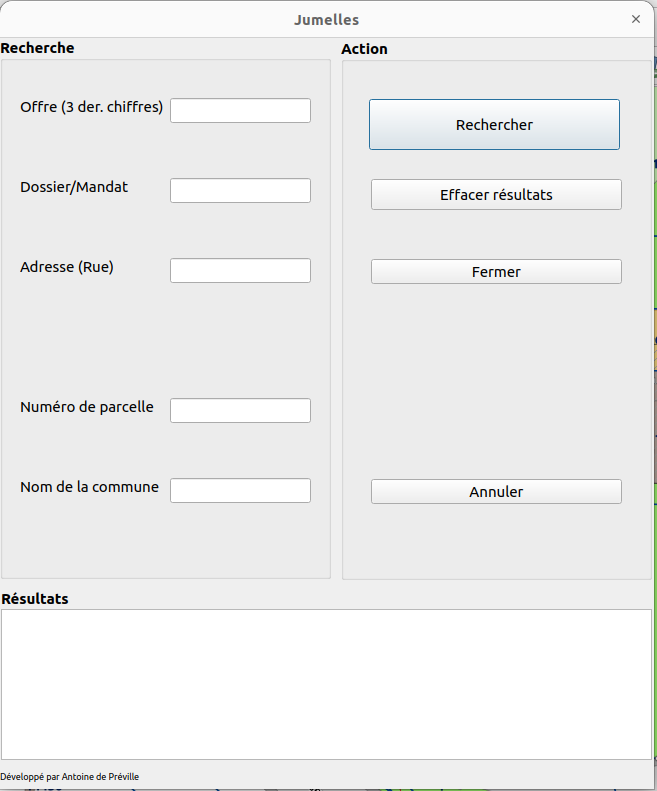
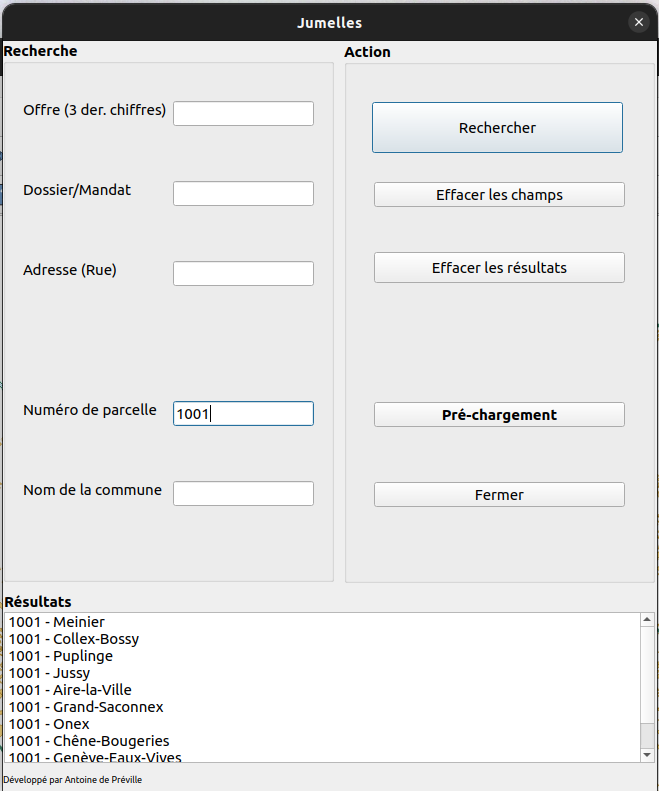
1000s added to 'Offres' and README modified

diff --git a/jumelles.py b/jumelles.py
@@ -36,6 +36,7 @@ import os.path
 
 class Jumelles:
     """QGIS Plugin Implementation."""
+
     def __init__(self, iface):
         """Constructor.
 
@@ -303,6 +304,7 @@ class Jumelles:
                     arr[k] = R[j]
                     j += 1
                     k += 1
+                return arr
 
             def merge_sort(arr, l, r, progress, total_steps):
                 if l < r:
@@ -313,20 +315,17 @@ class Jumelles:
                     progress.setValue(progress.value() + 1)
                     if progress.wasCanceled():
                         return False
-                return True
+                return arr
+
             return merge_sort(arr, l, r, progress, total_steps)
 
         total_steps = n_parcelles + n_adresses + n_dossiers + n_offres
         progress.setMaximum(total_steps)
 
-        if not merge_sort_progress(M_parcelles[:, 0].astype(int), 0, n_parcelles - 1, progress, total_steps):
-            return
-        if not merge_sort_progress(M_adresses[:, 0].astype(str), 0, n_adresses - 1, progress, total_steps):
-            return
-        if not merge_sort_progress(arr_dossiers.astype(str), 0, n_dossiers - 1, progress, total_steps):
-            return
-        if not merge_sort_progress(arr_offres.astype(str), 0, n_offres - 1, progress, total_steps):
-            return
+        merge_sort_progress(M_parcelles[:, 0].astype(int), 0, n_parcelles - 1, progress, total_steps)
+        merge_sort_progress(M_adresses[:, 0].astype(str), 0, n_adresses - 1, progress, total_steps)
+        merge_sort_progress(arr_dossiers.astype(str), 0, n_dossiers - 1, progress, total_steps)
+        merge_sort_progress(arr_offres.astype(str), 0, n_offres - 1, progress, total_steps)
 
         progress.close()
 
@@ -364,7 +363,7 @@ class Jumelles:
                 self.ui.listWidget_resultats.addItem(f"Mandat {str(arr[i])}")
                 break
         if not found:
-            return self.ui.listWidget_resultats.addItem("Erreur: le mandat n'existe pas.")
+            return self.ui.listWidget_resultats.addItem("Erreur: le dossier n'existe pas.")
 
     def dossiers(self, input):
         """'dossier()' finds each 'Mandat' stored in the layer's attribute table"""
@@ -382,30 +381,44 @@ class Jumelles:
 
     def search_offres(self, arr, length, target):
         """this method searches the matches between input and attribute table for 'Offres'"""
+        """
         left = 0
         right = length - 1
         while left <= right:
             mid = (left + right) // 2
-            if int(arr[mid][-3:]) < int(target):
+            if str(arr[mid][-5:]).replace('-', '') < str(target):
                 left = mid + 1
-            elif int(arr[mid][-3:]) > int(target):
+            elif str(arr[mid][-5:]).replace('-', '') < str(target):
                 right = mid - 1
             else:
                 return self.ui.listWidget_resultats.addItem(str(arr[mid]))
         return self.ui.listWidget_resultats.addItem("Erreur: l'offre n'existe pas.")
+        """
+        n = length
+        found = False
+        for i in range(0, n):
+            if str(arr[i]).replace('-', '').lower().__contains__(str(target)) or str(arr[i]).lower().__contains__(
+                    str(target)) or str(arr[i]).replace('-', '').upper().__contains__(str(target)) or str(
+                    arr[i]).upper().__contains__(str(target)):
+                found = True
+                self.ui.listWidget_resultats.addItem(str(arr[i]))
+                break
+
+        if not found:
+            return self.ui.listWidget_resultats.addItem("Erreur: l'offre n'existe pas.")
 
     def offres(self, input):
         self.running_flag = 'offres'
         df = QgsProject.instance().mapLayersByName("Offres")[0]  # selects the good layer. In this case 'offres'
         iface.setActiveLayer(df)  # gets it active
 
-        arr_offres = self.chargement()
+        arr_offres = sorted(self.chargement())
         length = len(arr_offres)
         self.ui.listWidget_resultats.addItem(self.search_offres(arr_offres, length, input))
-        self.ui.listWidget_resultats.itemDoubleClicked.connect(self.zoom_o)  # Accesses the zoom method that displays the corresponding map by choosing which directory to display
+        self.ui.listWidget_resultats.itemDoubleClicked.connect(
+            self.zoom_o)  # Accesses the zoom method that displays the corresponding map by choosing which directory to display
 
     def search_parcelles(self, mat, target):
-        """this method searches the matches between input and attribute table for 'Parcelles'"""
         """this method searches the matches between input and attribute table for 'Parcelles'"""
         n = len(mat) - 1
         found = False
@@ -418,7 +431,6 @@ class Jumelles:
             return self.ui.listWidget_resultats.addItem("Erreur: la parcelle n'existe pas.")
 
     def parcelles(self, input):
-        """'parcelles()' finds each 'no_parcelle' stored in the layer's attribute table"""
         """'parcelles()' finds each 'no_parcelle' stored in the layer's attribute table"""
         self.ui.listWidget_resultats.clear()
         self.running_flag = 'parcelles'
@@ -436,7 +448,8 @@ class Jumelles:
         n = len(mat) - 1
         found = False
         for i in range(0, n):
-            if str(mat[i][1]).__contains__(str(target)) or str(mat[i][1]).lower().__contains__(str(target).lower()) or str(mat[i][1]).upper().__contains__(str(target).upper()):
+            if str(mat[i][1]).__contains__(str(target)) or str(mat[i][1]).lower().__contains__(
+                    str(target).lower()) or str(mat[i][1]).upper().__contains__(str(target).upper()):
                 found = True
                 self.ui.listWidget_resultats.addItem(f"{str(mat[i][0])} - {str(mat[i][1])}")
         if not found:
@@ -446,7 +459,8 @@ class Jumelles:
         """'communes()' finds each 'commune' stored in the layer's attribute table"""
         self.ui.listWidget_resultats.clear()
         self.running_flag = 'communes'
-        communesLayer = QgsProject.instance().mapLayersByName("Parcelles")[0]  # selects the good layer. In this case 'CAD_PARCELLE_MENSU'
+        communesLayer = QgsProject.instance().mapLayersByName("Parcelles")[
+            0]  # selects the good layer. In this case 'Parcelles'
         iface.setActiveLayer(communesLayer)  # gets it active
 
         M = self.chargement()
@@ -456,10 +470,12 @@ class Jumelles:
 
     def search_adresses(self, mat, target):
         """this method searches the matches between input and attribute table for 'Adresses'"""
-        n = len(mat)-1
+        n = len(mat) - 1
         found = False
         for i in range(0, n):
-            if (str(mat[i, 0]).__contains__(str(target))) or (str(mat[i, 0]).lower().__contains__(str(target).lower())) or (str(mat[i, 0]).upper().__contains__(str(target).upper())):
+            if (str(mat[i, 0]).__contains__(str(target))) or (
+                    str(mat[i, 0]).lower().__contains__(str(target).lower())) or (
+                    str(mat[i, 0]).upper().__contains__(str(target).upper())):
                 found = True
                 self.ui.listWidget_resultats.addItem(f"{str(mat[i][0])} - {str(mat[i][1])} {str(mat[i][2])}")
         if not found:
@@ -469,19 +485,26 @@ class Jumelles:
         self.ui.listWidget_resultats.clear()
         self.running_flag = 'adresses'
         """'adresses()' finds each 'NO_ADRESSE' stored in the layer's attribute table"""
-        adressesLayer = QgsProject.instance().mapLayersByName("Adresses")[0]  # select the good layer. In this case 'CAD_ADRESSE'
+        adressesLayer = QgsProject.instance().mapLayersByName("Adresses")[
+            0]  # select the good layer. In this case 'Adresses'
         iface.setActiveLayer(adressesLayer)
         M_adresses = self.chargement()
         self.ui.listWidget_resultats.addItem(self.search_adresses(M_adresses, input))
-        self.ui.listWidget_resultats.itemDoubleClicked.connect(self.zoom_a)  # Accesses the zoom method that displays the corresponding map by choosing which address to display
+
+        self.ui.listWidget_resultats.itemDoubleClicked.connect(
+            self.zoom_a)  # Accesses the zoom method that displays the corresponding map by choosing which address to display
+
+        self.ui.listWidget_resultats.itemDoubleClicked.connect(
+            self.zoom_a)  # Accesses the zoom method that displays the corresponding map by choosing which address to display
 
     def search_parcomm(self, mat, target1, target2):
         """this method searches the matches between input and attribute table for 'Parcelles' and 'Communes'"""
         n = len(mat) - 1
         found = False
         for i in range(0, n):
-            if (str(mat[i][1]).__contains__(str(target2)) or str(mat[i][1]).lower().__contains__(str(target2).lower()) or str(mat[i][1]).upper().__contains__(
-            str(target2).upper())) and (int(mat[i][0]) == int(target1)):
+            if (str(mat[i][1]).__contains__(str(target2)) or str(mat[i][1]).lower().__contains__(
+                    str(target2).lower()) or str(mat[i][1]).upper().__contains__(
+                    str(target2).upper())) and (int(mat[i][0]) == int(target1)):
                 found = True
                 self.ui.listWidget_resultats.addItem(f"{str(mat[i][0])} - {str(mat[i][1])}")
         if not found:
@@ -491,7 +514,8 @@ class Jumelles:
         """'parComm()' finds each 'no_parcelle' and 'commune' stored in the layer's attribute table"""
         self.ui.listWidget_resultats.clear()
         self.running_flag = 'parcomm'
-        parcoLayer = QgsProject.instance().mapLayersByName("Parcelles")[0]  # select the good layer. In this case 'CAD_ADRESSE:CAD_ADRESSE'
+        parcoLayer = QgsProject.instance().mapLayersByName("Parcelles")[
+            0]  # select the good layer. In this case 'Parcelles'
         iface.setActiveLayer(parcoLayer)  # sets it active
         M_parcomm = self.chargement()
         self.ui.listWidget_resultats.addItem(self.search_parcomm(M_parcomm, inputParc, inputComm))
@@ -563,7 +587,8 @@ class Jumelles:
     def zoom_a(self, item):
         """Diplays the map according to selection in the adresse() method"""
         selected_item = item.text()
-        layer = QgsProject.instance().mapLayersByName("Adresses")[0]  # select the good layer. In this case 'CAD_ADRESSE'
+        layer = QgsProject.instance().mapLayersByName("Adresses")[
+            0]  # select the good layer. In this case 'CAD_ADRESSE'
         iface.setActiveLayer(layer)
         for f in layer.getFeatures():
             if selected_item == f'{f["ADRESSE"]} - {f["NO_POSTAL"]} {f["COMMUNE"]}':
@@ -587,6 +612,7 @@ class Jumelles:
         self.ui.lineEdit_commune.clear()
 
     def clear_results(self):
+        """Clears results"""
         self.ui.listWidget_resultats.clear()
 
     def close(self):

diff --git a/README.md b/README.md
@@ -12,19 +12,18 @@ It is a management tool.
 The plugin works on a single window with:
 * a research part on the left to search:
   * Offre
-  * Dossier
-  * Adresse
-  * Parcelle
-  * Commune
+  * Dossier/Mandat
+  * Adresse (Rue)
+  * Numéro de parcelle
+  * Nom de la commune
 * an action part on the right with four buttons:
   * Rechercher
-  * Effacer résultats
+  * Effacer les champs
+  * Effacer les résultats
+  * Pré-chargement
   * Fermer
-  * Annuler
 * a display field at the bottom that displays the code names of what we are looking for.
 A double click on a result in the display field shows the place on the map and zooms in.
 
 Here is a screenshot of the plugin:
 ![Jumelles](fenetre.png "icon")
-
-It is important to note that at the first research, the plugin takes time to charge data.
